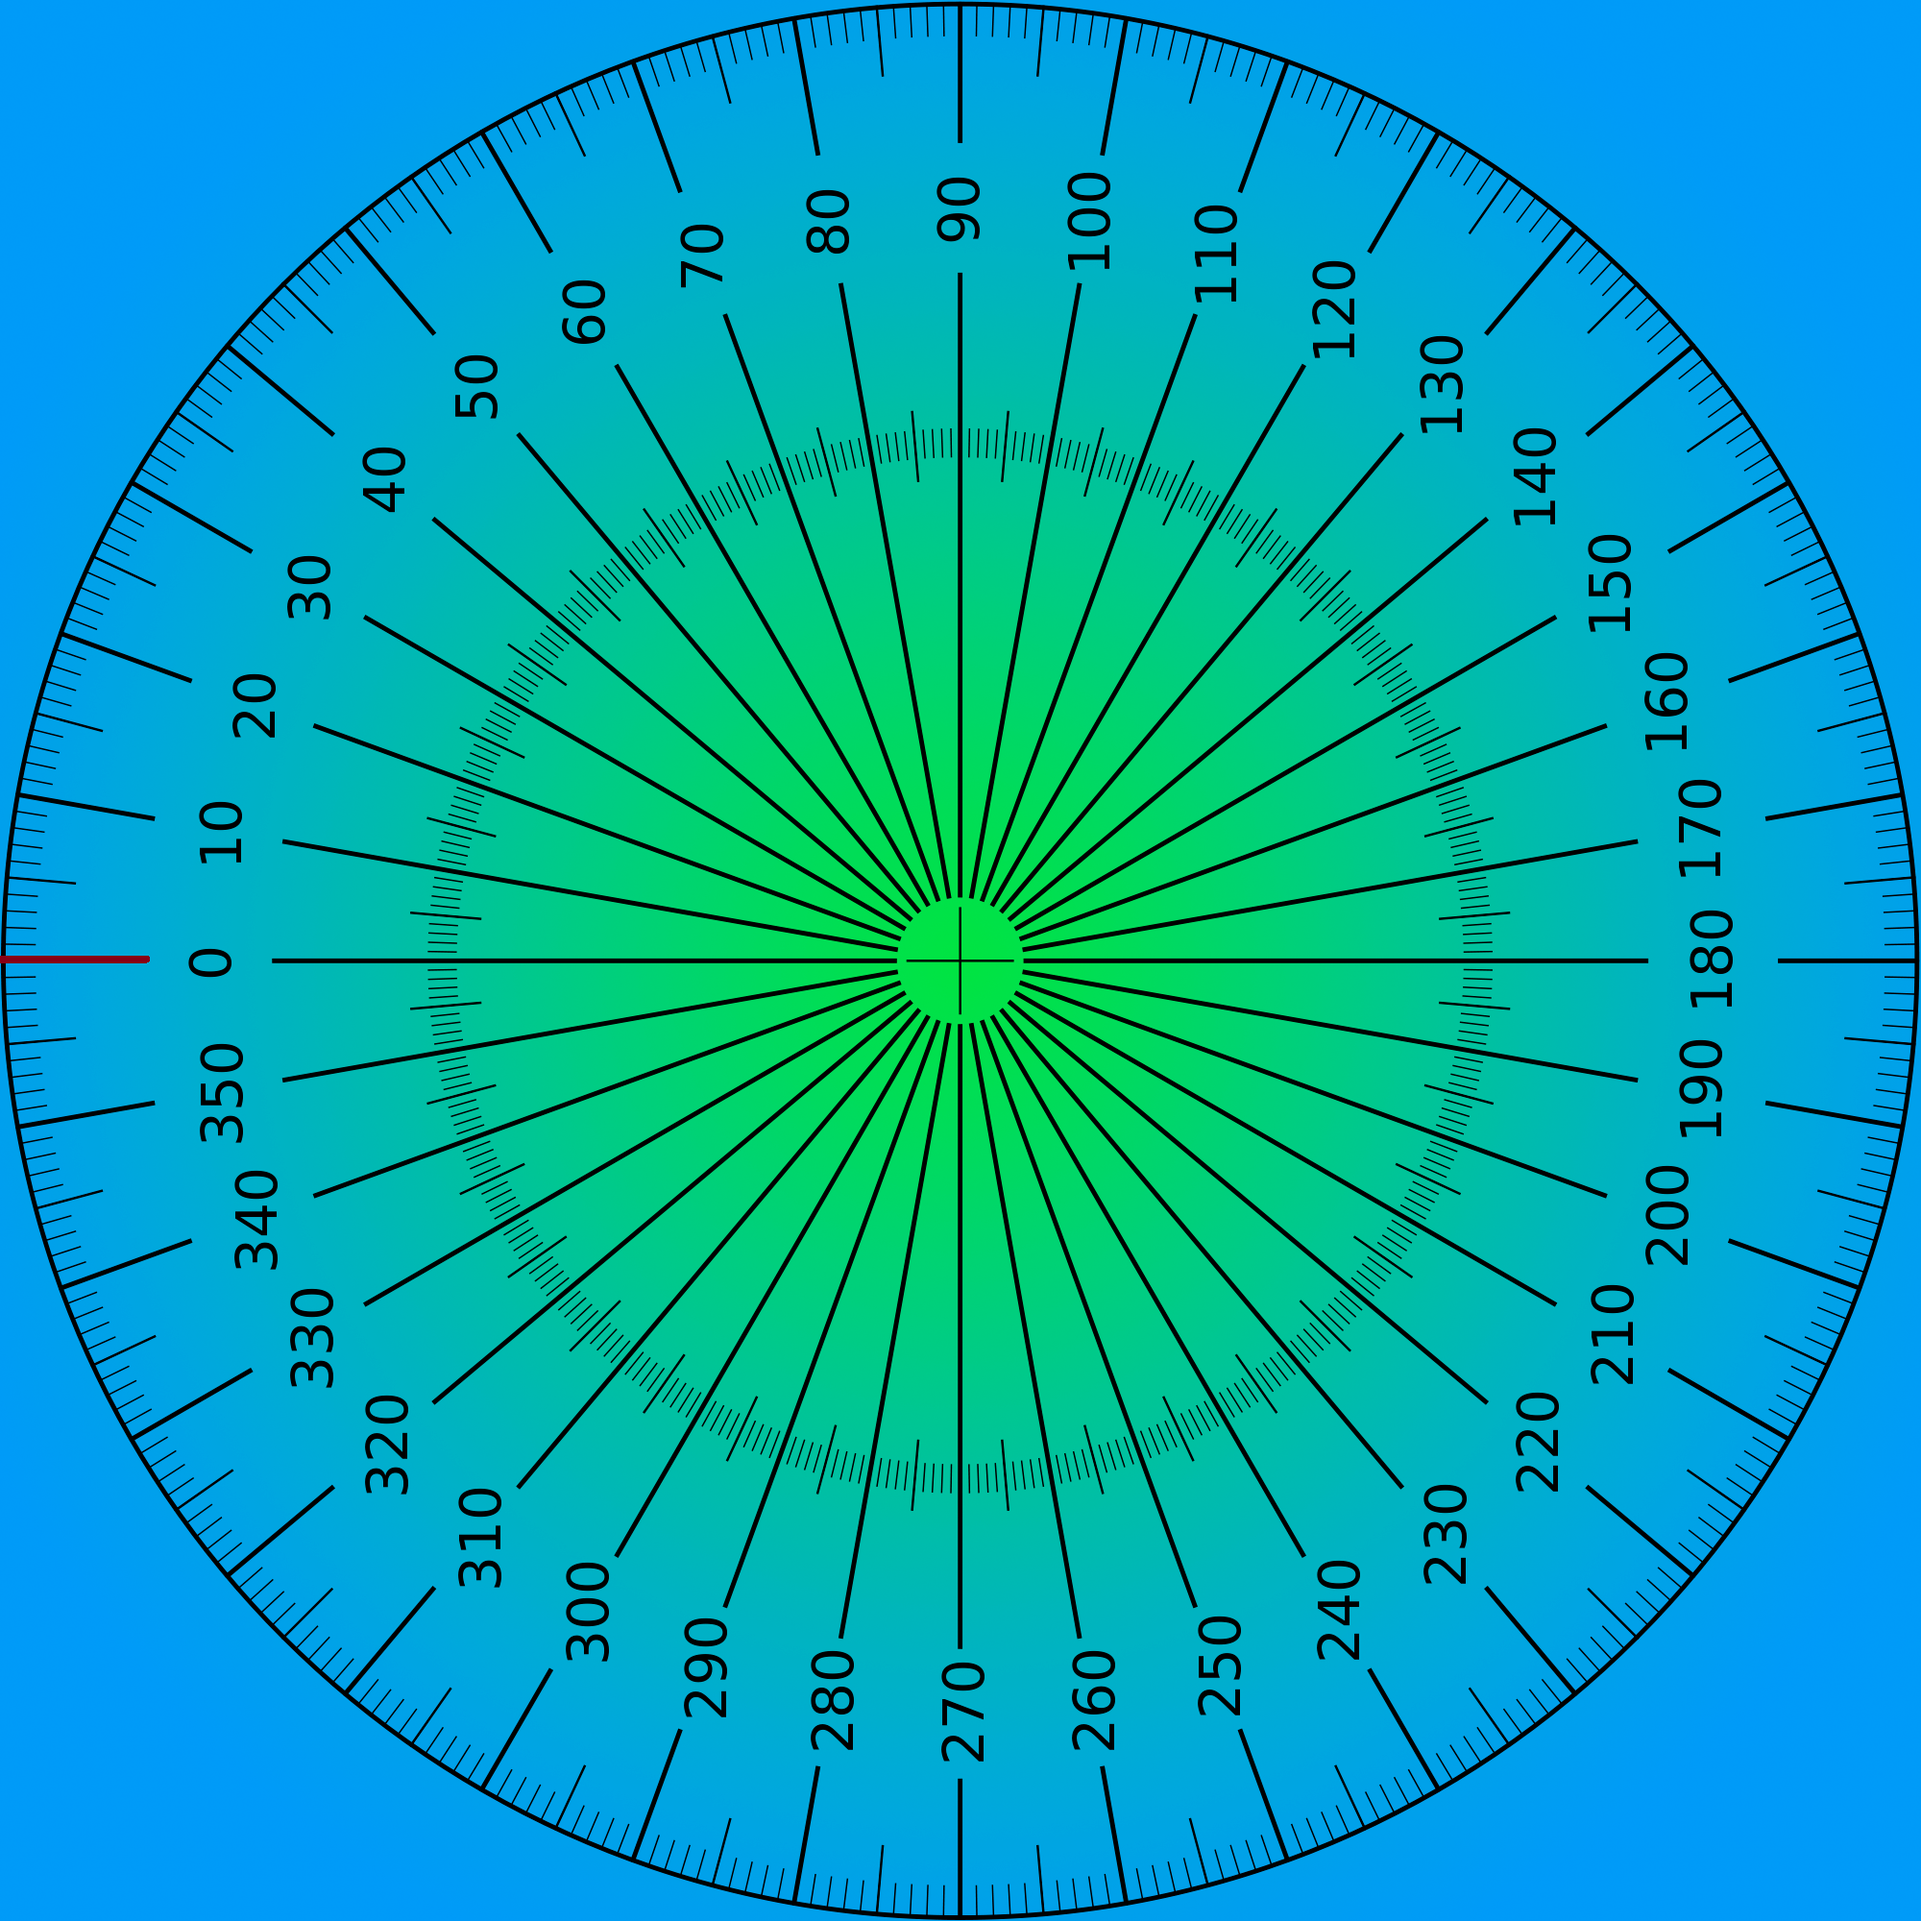
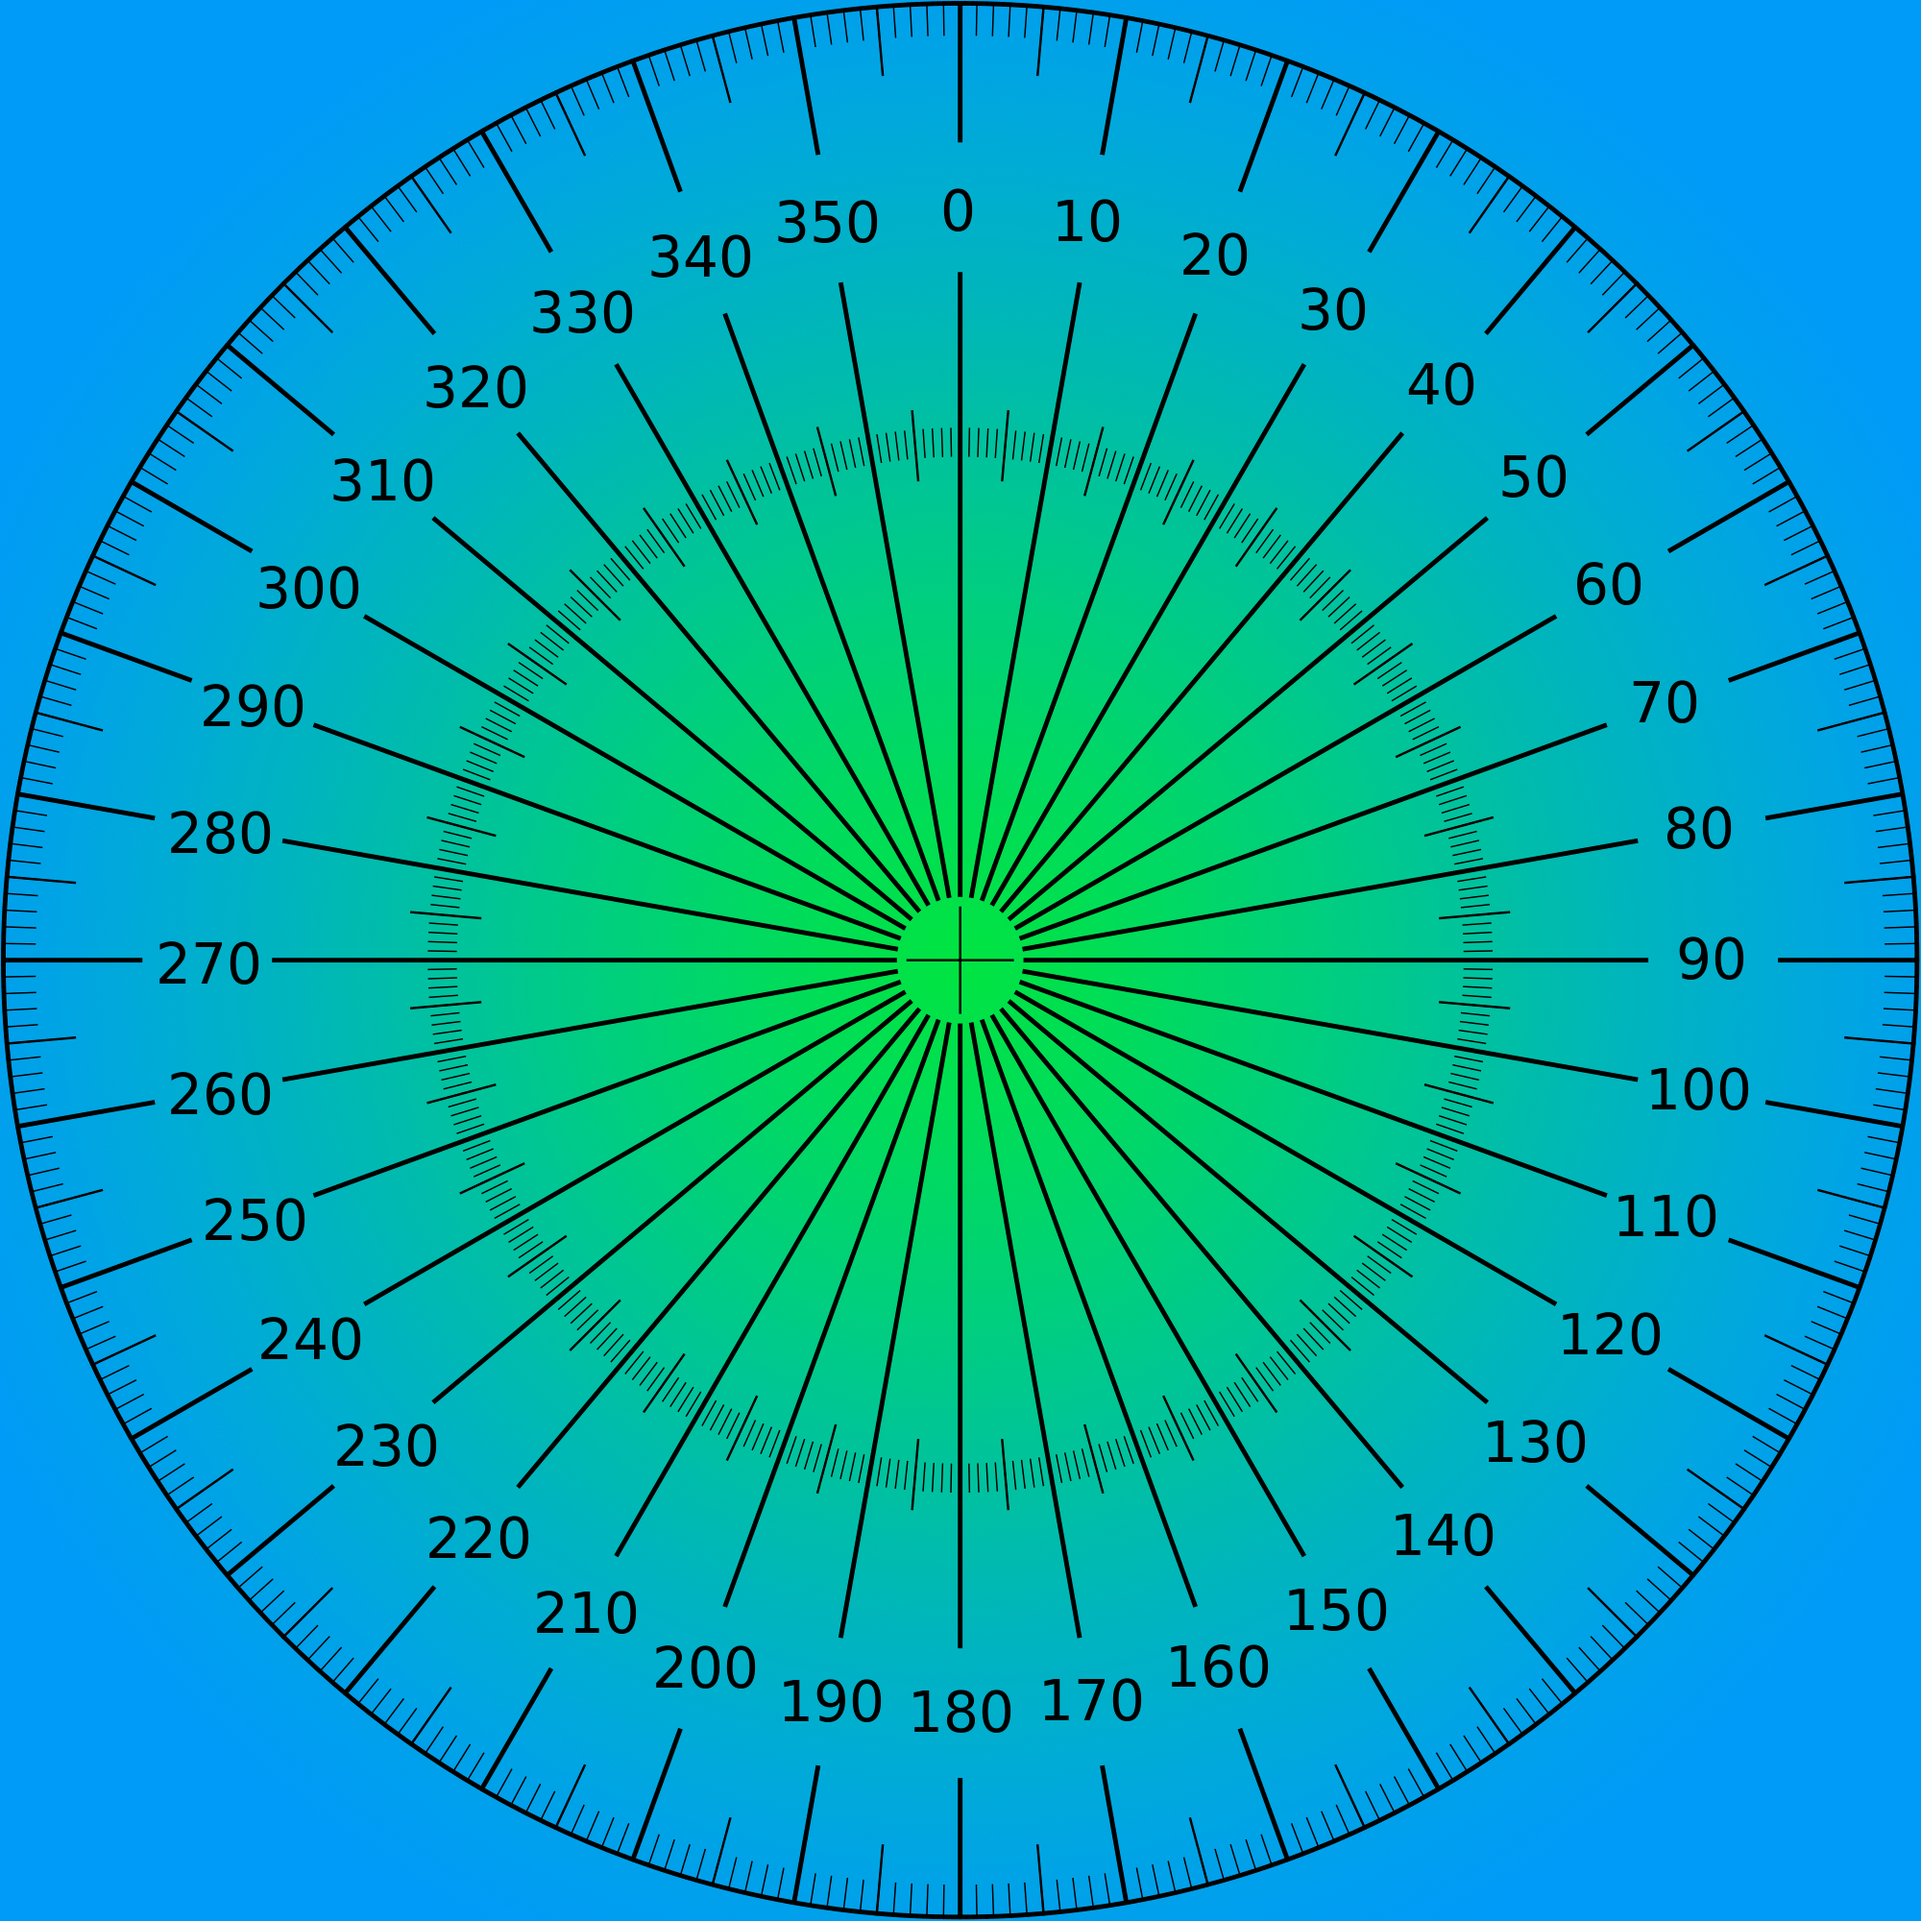
Transportador configurado correctamente, escritura serial

diff --git a/public/transportador.min.css b/public/transportador.min.css
@@ -1,1 +1,1 @@
-.range{border-radius:50%;display:table;height:500px;position:relative;width:500px}.range input{opacity:0;position:absolute}.range .dial{background-color:#fff;border-radius:50%;box-shadow:0 0 5px 5px rgba(0,0,0,0.1);cursor:pointer;height:26px;margin-left:-13px;position:absolute;top:-13px;transform:translateX(250px) translateY(5px);width:26px;z-index:40}.range .dial:focus{outline:0}.range .info{background-color:#fff;background-image:url("transportador.png");background-size:contain;border-radius:50%;bottom:10px;color:#333;cursor:default;display:table-cell;font:400 16px/1.1 "Roboto", sans-serif;left:10px;padding-top:22%;position:absolute;right:10px;text-align:center;top:10px;user-select:none;text-transform:uppercase;z-index:30}.range .count{color:#f27935;display:block;font-size:50px;font-weight:700}.slice{border-radius:500px 0 0 500px;background-color:#f27935;height:100%;overflow:hidden;position:absolute;user-select:none;width:50%;z-index:10}.slice.right{border-radius:0 500px 500px 0;right:0}.slice.right .blocker{left:0;right:auto;transform-origin:0 25%}.slice .blocker{background-color:#eee;height:200%;position:absolute;right:0;transform-origin:100% 25%;width:200%}
+.range{border-radius:50%;display:table;height:500px;position:relative;width:500px;transform:rotate(-90deg)}.range input{opacity:0;position:absolute}.range .dial{background-color:#fff;border-radius:50%;box-shadow:0 0 5px 5px rgba(0,0,0,0.1);cursor:pointer;height:26px;margin-left:-13px;position:absolute;top:-13px;transform:translateX(250px) translateY(5px);width:26px;z-index:40}.range .dial:focus{outline:0}.range .info{background-color:#fff;background-image:url("transportador.png");background-size:contain;border-radius:50%;bottom:10px;color:#333;cursor:default;display:table-cell;font:400 16px/1.1 "Roboto", sans-serif;left:10px;padding-top:22%;position:absolute;right:10px;text-align:center;top:10px;user-select:none;text-transform:uppercase;z-index:30}.range .count{color:#f27935;display:block;font-size:50px;font-weight:700}.slice{border-radius:500px 0 0 500px;background-color:#f27935;height:100%;overflow:hidden;position:absolute;user-select:none;width:50%;z-index:10}.slice.right{border-radius:0 500px 500px 0;right:0}.slice.right .blocker{left:0;right:auto;transform-origin:0 25%}.slice .blocker{background-color:#eee;height:200%;position:absolute;right:0;transform-origin:100% 25%;width:200%}

diff --git a/index.js b/index.js
@@ -1,14 +1,24 @@
 import express from "express";
 import path from "path";
 import { fileURLToPath } from "url";
+import bodyParser from "body-parser";
 
 const __filename = fileURLToPath(import.meta.url);
 const __dirname = path.dirname(__filename);
 import { SerialPort } from "serialport";
+import { ReadlineParser } from "@serialport/parser-readline";
 
 const app = express();
+
+app.use(express.json());
+app.use(bodyParser.json());
+
 let pathPort = "";
-/*SerialPort.list()
+var grado = 0;
+var interval;
+var port = "";
+
+SerialPort.list()
     .then((ports) => {
         ports.forEach(function (port) {
             pathPort = port.path;
@@ -17,16 +27,49 @@ let pathPort = "";
     })
     .then((res) => {
         console.log(res);
-        const port = new SerialPort({
-            path: pathPort,
-            baudRate: 9600,
+        port = new SerialPort({
+            path: res,
+            baudRate: 115200,
         });
-    });*/
+
+        return port;
+    })
+    .then((port) => {
+        interval = setInterval(() => {
+            port.write(`${grado}\n`),
+                (err) => {
+                    if (err) {
+                        console.log(err.message);
+                    }
+                };
+        }, 500);
+
+        const parser = port.pipe(new ReadlineParser({ delimiter: "\n" }));
+        parser.on("data", function (data) {
+            console.log(data);
+        });
+    });
 
 app.use(express.static(path.join(__dirname, "public")));
 
 app.get("/", function (req, res) {
     res.sendFile(path.join(__dirname, "public", "index.html"));
+});
+
+app.post("/serial", function (req, res) {
+    const dato = req.body.dato;
+    grado = dato;
+    let analog = parseInt((dato * 1023) / 270);
+    clearInterval(interval);
+    interval = setInterval(() => {
+        port.write(`${analog}\n`),
+            (err) => {
+                if (err) {
+                    console.log(err.message);
+                }
+            };
+    }, 500);
+    res.sendStatus(200);
 });
 
 app.listen(3000, function () {

diff --git a/public/transportador.js b/public/transportador.js
@@ -7,6 +7,8 @@ var position,
     minPoints = input.attr("min"),
     prevVal = input.attr("min");
 
+var input = document.querySelector("#posicion");
+
 range.on("mousedown touchstart", rangeSliderInit);
 range.on("mousemove touchmove", rangeSliderUpdate);
 range.on("mouseup touchend", rangeSliderStop);
@@ -53,9 +55,22 @@ function rangeSliderUpdate(e) {
             x: position.x - range.offset().left,
             y: position.y - range.offset().top,
         },
-        radius = range.width() / 2,
-        atan = Math.atan2(coords.x - radius, coords.y - radius),
-        deg = Math.ceil(-atan / (Math.PI / 180) + 180);
+        radius = range.width() / 2;
+    // var atan = Math.atan2(coords.x - radius, coords.y - radius);
+    var atan = Math.atan2(coords.y - radius, coords.x - radius);
+    // var deg = Math.ceil(-atan / (Math.PI / 180) + 180);
+    var deg = prevVal;
+
+    if (atan < 0 && atan > -Math.PI / 2)
+        deg = 90 - Math.ceil((atan * 180) / Math.PI) * -1 + 90;
+
+    if (atan < -Math.PI / 2 && atan > -Math.PI)
+        deg = Math.ceil((atan * 180) / Math.PI) + 180;
+
+    if (atan > 0 && atan < Math.PI / 2)
+        deg = Math.ceil((atan * 180) / Math.PI) + 180;
+
+    // console.log(coords.x - radius, coords.y - radius, atan, deg);
 
     if (prevVal <= 1 && lastPosition - position.x >= 0) deg = 0;
     if (prevVal >= 359 && lastPosition - position.x <= 0) deg = 360;
@@ -88,6 +103,18 @@ function rangeSliderUpdate(e) {
 
     //show value
     range.find(".count").text(`${points} °`).val(points);
+    input.value = points;
+
+    let api = "http://localhost:3000/serial";
+    const response = fetch(api, {
+        method: "POST",
+        headers: {
+            "Content-Type": "application/json",
+        },
+        body: JSON.stringify({
+            dato: points,
+        }),
+    });
 
     prevVal = deg;
     lastPosition = position.x;

diff --git a/public/transportador.css b/public/transportador.css
@@ -4,13 +4,12 @@
   height: 500px;
   position: relative;
   width: 500px;
+  transform: rotate(-90deg);
 }
-
 .range input {
   opacity: 0;
   position: absolute;
 }
-
 .range .dial {
   background-color: #fff;
   border-radius: 50%;
@@ -24,11 +23,9 @@
   width: 26px;
   z-index: 40;
 }
-
 .range .dial:focus {
   outline: 0;
 }
-
 .range .info {
   background-color: #fff;
   background-image: url("transportador.png");
@@ -45,11 +42,12 @@
   right: 10px;
   text-align: center;
   top: 10px;
-  user-select: none;
+  -webkit-user-select: none;
+     -moz-user-select: none;
+          user-select: none;
   text-transform: uppercase;
   z-index: 30;
 }
-
 .range .count {
   color: #f27935;
   display: block;
@@ -63,22 +61,21 @@
   height: 100%;
   overflow: hidden;
   position: absolute;
-  user-select: none;
+  -webkit-user-select: none;
+     -moz-user-select: none;
+          user-select: none;
   width: 50%;
   z-index: 10;
 }
-
 .slice.right {
   border-radius: 0 500px 500px 0;
   right: 0;
 }
-
 .slice.right .blocker {
   left: 0;
   right: auto;
   transform-origin: 0 25%;
 }
-
 .slice .blocker {
   background-color: #eee;
   height: 200%;
@@ -86,4 +83,4 @@
   right: 0;
   transform-origin: 100% 25%;
   width: 200%;
-}
+}/*# sourceMappingURL=transportador.css.map */

diff --git a/public/transportador.scss b/public/transportador.scss
@@ -17,7 +17,7 @@ $dial__size: 26px;
     height: $range__size;
     position: relative;
     width: $range__size;
-
+    transform: rotate(-90deg);
     input {
         opacity: 0;
         position: absolute;
@@ -33,6 +33,7 @@ $dial__size: 26px;
         position: absolute;
         top: -$dial__size/2;
         transform: translateX(#{$range__size/2}) translateY(#{$range__width/2});
+        // transform: translateX(#{$range__width/2}) translateY(#{$range__size/2});
         width: $dial__size;
         z-index: 40;
         &:focus {

diff --git a/public/index.html b/public/index.html
@@ -34,7 +34,7 @@
             </div>
             <div class="input">
                 <label for="posicion">Posición deseada (0° - 270°)</label>
-                <input type="number" id="posicion" disabled />
+                <input type="number" id="posicion" value="0" disabled />
             </div>
         </div>
         <script src="jquery.min.js"></script>
